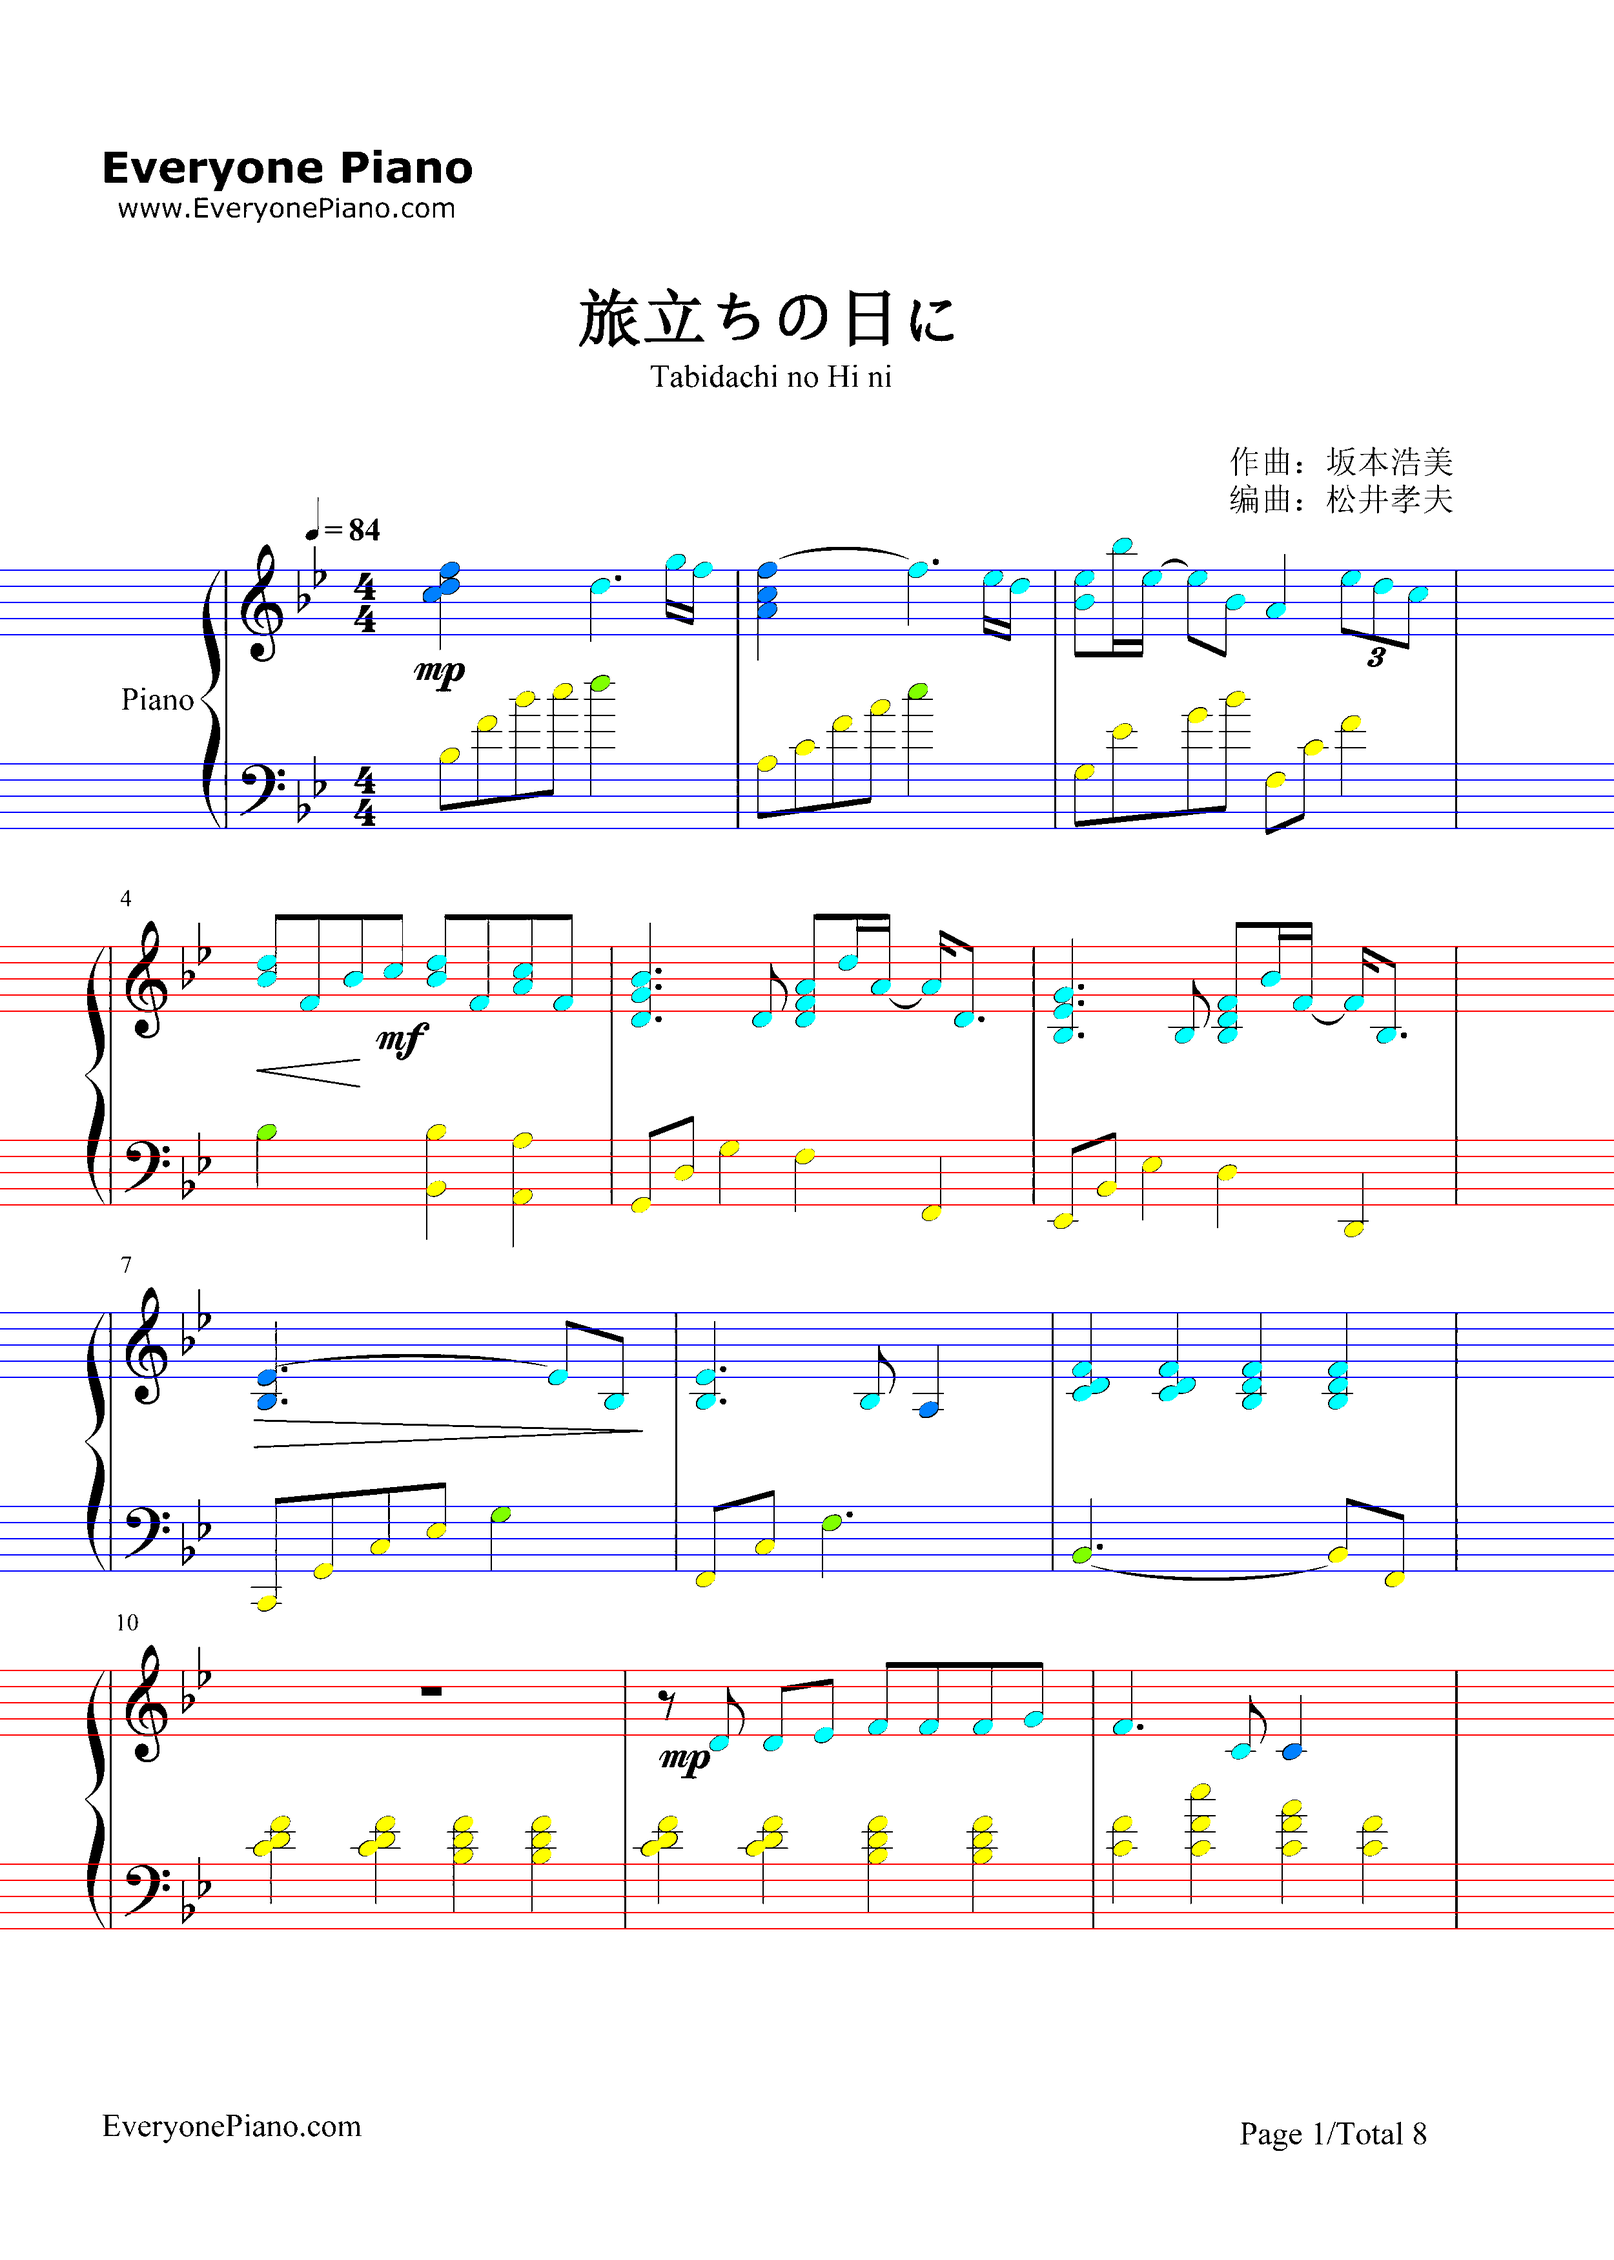
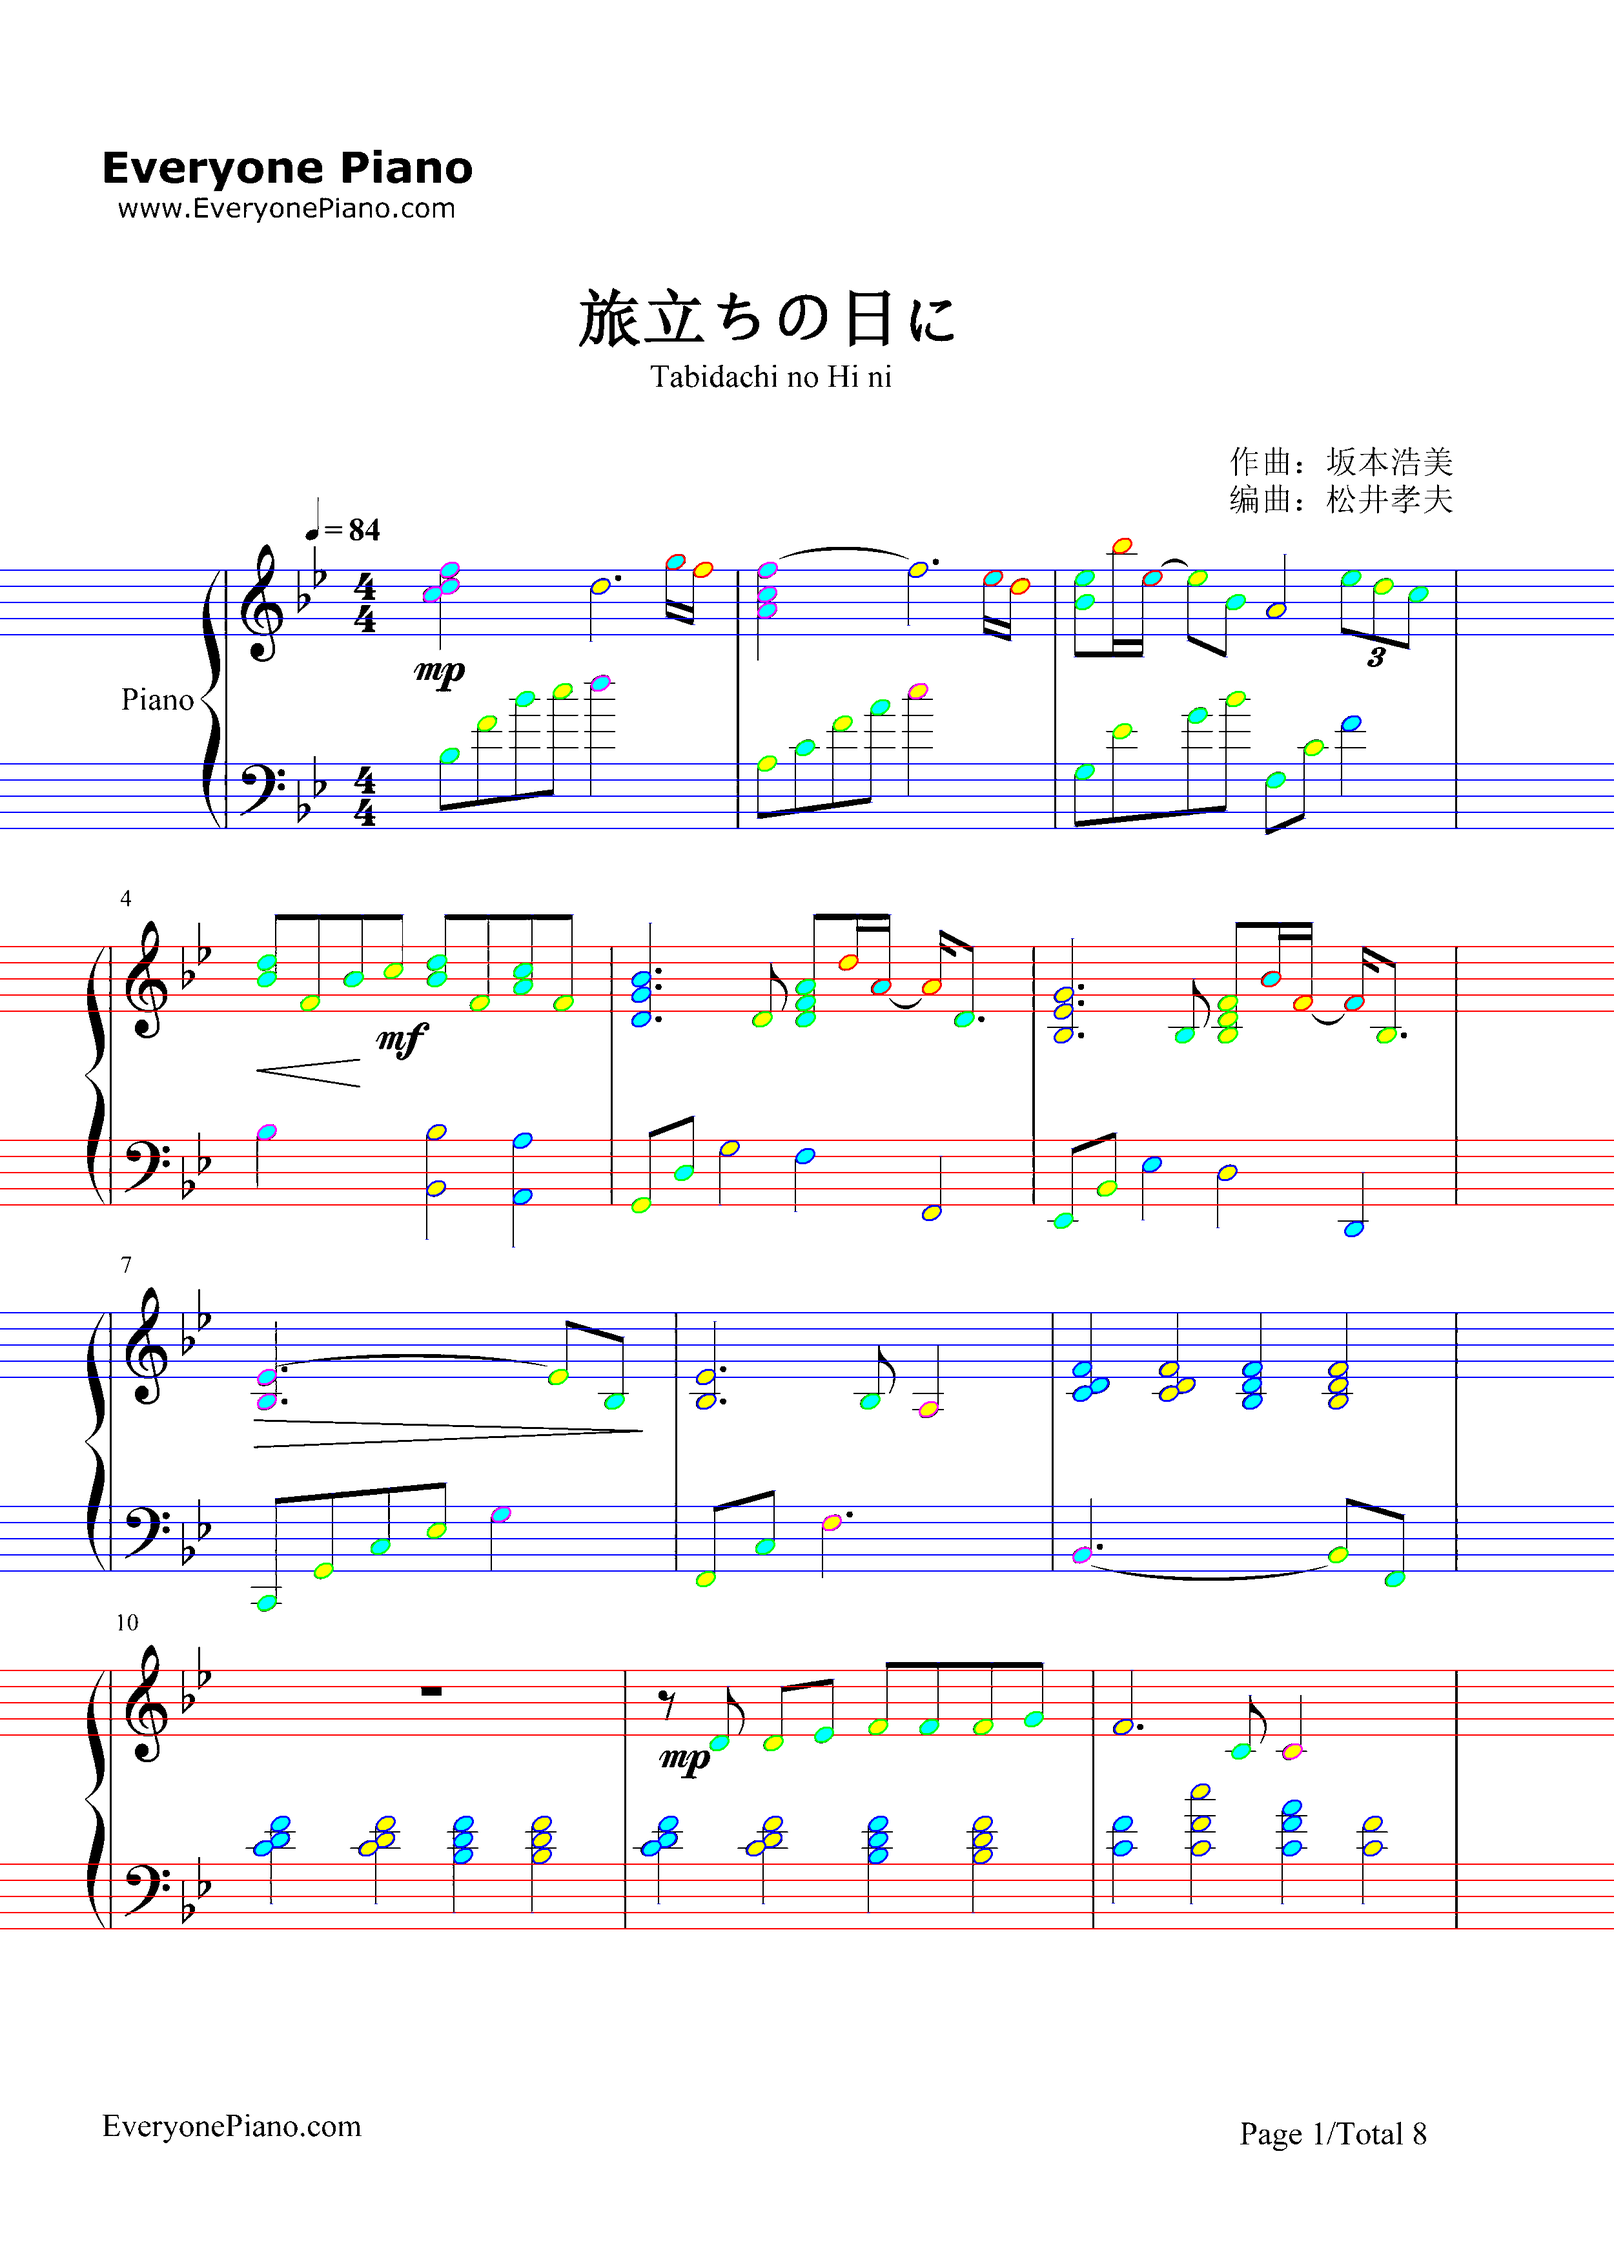
add function of judging note type

diff --git a/staff.py b/staff.py
@@ -1,4 +1,3 @@
-from os import dup
 import cv2
 import numpy as np
 
@@ -9,7 +8,8 @@ class Staff:
         self.margin_staff, self._margin_list = self.margin_ave(data)
         self.top = self.staff_lines[0]["center"]
         self.bottom = self.staff_lines[-1]["center"]
-
+        self.marble_list = []
+        self.group_line_y = []
 
     def margin_ave(self, data):
         margin = [data[i + 1]["center"] - data[i]["center"] for i in range(len(data) - 1)]
@@ -177,30 +177,33 @@ class Staff:
         cv2.imwrite('data/dst/test2.png', mask)
         cv2.imwrite('data/dst/test4.png', mask_circle)
 
-        lists = []
+        marbles_on_staff = []
         for y in scan_y:
-            lists.append(self.scan_marble_on_horizon(img, w, y[0], y[1], mask, mask_circle, mask_circle_center, margin_vr, margin_hr))
+            marbles_on_staff.extend(self.scan_marble_on_horizon(img, w, int(y[0]), int(y[1]), mask, mask_circle, mask_circle_center, margin_vr, margin_hr))
 
-        return [scan_y, lists, self.margin_staff]
-
+        self.marble_list = marbles_on_staff
+        self.grouping_marble()
+        self.judge_marble_type(img)
+        print(self.marble_list)
+        # return [scan_y, marbles_on_staff, self.margin_staff]
 
     def scan_marble_on_horizon(self, img, w, y, no, mask, mask_circle, mask_circle_center, margin_vr, margin_hr):
         list_marble = []
-        i = margin_hr
+        # i = margin_hr
         # while i < w - margin_hr:
         for i in range(margin_hr, w - margin_hr):
-            if img[y, i] == 0:
+            if img.item(y, i) == 0:
                 for j in range(-2, 3):
                     img_p = img[y - margin_vr + j: y + margin_vr + 1 + j, i - margin_hr: i + margin_hr + 1]
                     img_judge = img_p & mask
                     if np.count_nonzero(img_judge == 255) <= img_judge.size // 100 and self.concrete_extend_marble(img, i, no):
-                        list_marble.append([i, 4])
+                        list_marble.append([(i, y), 4, no])
                         break
                     else:
                         img_judge = img_p & mask_circle
                         img_judge2 = cv2.bitwise_not(img_p) & mask_circle_center
                         if np.count_nonzero(img_judge == 255) <= img_judge.size // 100 and np.count_nonzero(img_judge2 == 255) <= img_judge2.size // 10 and self.concrete_extend_marble(img, i, no):
-                            list_marble.append([i, 2])
+                            list_marble.append([(i, y), 2, no])
                             break
             else:
                 for j in range(-2, 3):
@@ -208,7 +211,7 @@ class Staff:
                     img_judge = img_p & mask_circle
                     img_judge2 = cv2.bitwise_not(img_p) & mask_circle_center
                     if np.count_nonzero(img_judge == 255) <= img_judge.size // 100 and np.count_nonzero(img_judge2 == 255) <= img_judge2.size // 10 and self.concrete_extend_marble(img, i, no):
-                        list_marble.append([i, 2])
+                        list_marble.append([(i, y), 2, no])
                         break
 
         list_marble = self.combine_duplicate_marble(list_marble, margin_vr)
@@ -227,7 +230,7 @@ class Staff:
                 pos += length
             else:
                 pos -= length
-            img_p = img[round(pos) - 1: round(pos) + 2, x - int(length // 2): x + int(length // 2)]
+            img_p = img[int(round(pos)) - 1: int(round(pos)) + 2, x - int(length // 2): x + int(length // 2)]
             flg = False
             for item in img_p:
                 flg = True if not np.count_nonzero(item == 255) else flg
@@ -243,7 +246,7 @@ class Staff:
             if duplicate_list == []:
                 duplicate_list.append(item)
                 continue
-            if item[0] - duplicate_list[-1][0] < margin_vr:
+            if item[0][0] - duplicate_list[-1][0][0] < margin_vr:
                 duplicate_list.append(item)
             else:
                 result_list.append(self.find_max_type(duplicate_list))
@@ -259,6 +262,99 @@ class Staff:
             if item[1] > 2:
                 type_max = item[1]
 
-        return [duplicate_list[len(duplicate_list) // 2][0], type_max]
+        return [duplicate_list[len(duplicate_list) // 2][0], type_max, duplicate_list[len(duplicate_list) // 2][2]]
 
+    # 同時に鳴る音符をグループ化(縦に並んでいる玉をまとめる)
+    def grouping_marble(self):
+        grouped_marbel_list = []
+        thresh = self.margin_staff * 1.5
+        while self.marble_list:
+            top_marble = self.marble_list.pop(0)
+            group = [top_marble]
+            group_idx = []
+            for i, marble in enumerate(self.marble_list):
+                if abs(top_marble[0][0] - marble[0][0]) <= thresh:
+                    group.append(marble)
+                    group_idx.append(i)
+            self.marble_list = [item for idx, item in enumerate(self.marble_list) if idx not in group_idx]
+            grouped_marbel_list.append(group)
+
+        grouped_marbel_list = sorted(grouped_marbel_list, key=lambda x: x[0][0])
+        self.marble_list = grouped_marbel_list
+
+    def judge_marble_type(self, img):
+        judge_area_width = int(self.margin_staff * 1.5)
+        judge_area_height = int(self.margin_staff * 1.5)
+        marble_type = [4, 8, 16]
+        for i, group in enumerate(self.marble_list):
+            direction = -1
+            top_marble = group[0]
+            if top_marble[1] <= 2:
+                continue
+            start_x = top_marble[0][0] - judge_area_width // 2
+            start_y = top_marble[0][1] - int(self.margin_staff // 2) - judge_area_height
+            cut = img[start_y:start_y+judge_area_height, start_x:start_x+judge_area_width]
+            line_list = self.find_marble_line(cut, start_x)
+            if line_list == []:
+                direction = 1
+                bottom_marble = group[-1]
+                start_y = bottom_marble[0][1] + int(self.margin_staff // 2)
+                cut = img[start_y:start_y+judge_area_height, start_x:start_x+judge_area_width]
+                line_list = self.find_marble_line(cut, start_x)
+                if not line_list:
+                    return
+
+            line_edge_y = self.calc_marble_line_edge_y(img, line_list, start_y, direction)
+            self.group_line_y.append((line_list[len(line_list) // 2], line_edge_y))
+            marble_flag_num = self.check_marble_flag(img, line_list, line_edge_y, direction)
+            for j in range(len(group)):
+                self.marble_list[i][j][1] = marble_type[marble_flag_num]
+
+    def find_marble_line(self, img_cut, x):
+        result = []
+        h, w = img_cut.shape[:2]
+        for i in range(w):
+            part = img_cut[0:h, i:i+1]
+            if np.size(part) - np.count_nonzero(part) > np.size(part) * 9 / 10:
+                result.append(x + i)
+
+        return result
+
+    def calc_marble_line_edge_y(self, img, line_list, y, direction=1):
+        start_line_x = line_list[0]
+        line_edge_y = y
+        while True:
+            next_y = line_edge_y + direction
+            cut = img[next_y:next_y+1, start_line_x:start_line_x+len(line_list)]
+            if np.count_nonzero(cut) == np.size(cut):
+                break
+            line_edge_y += direction
+        
+        return line_edge_y
+
+    def check_marble_flag(self, img, line_list, line_edge_y, direction=1):
+        zone_height = int(self.margin_staff * 2)
+        lines_pair = [line_list[0] - 3, line_list[-1] + 3]
+        if direction == 1:
+            zone_start_y = line_edge_y - int(self.margin_staff * 1.5)
+        else:
+            zone_start_y = line_edge_y - int(self.margin_staff // 2)
+        check_zone = [img[zone_start_y:zone_start_y+zone_height, lines_pair[0]:lines_pair[0]+1], img[zone_start_y:zone_start_y+zone_height, lines_pair[1]:lines_pair[1]+1]]
+
+        count_max = 0
+        for zone in check_zone:
+            combo = 0
+            count = 0
+            for dot in zone:
+                if dot[0] == 0:
+                    combo += 1
+                else:
+                    combo = 0
+                if combo == int(self.margin_staff // 6):
+                    count += 1
+
+            if count_max < count:
+                count_max = count
+
+        return count_max
 

diff --git a/prot.py b/prot.py
@@ -28,20 +28,37 @@ class Prot:
         cv2.imwrite('data/dst/paragraph.png', self.img_rgb)
 
 
-    def marbles(self, marbles):
-        flg = 0
-        for i1 in marbles:
-            for i2 in i1:
-                margin = int(i2[2]) if int(i2[2] % 2) else int(i2[2]) + 1
-                flg = 0 if flg else 1
-                for j1, j2 in zip(i2[0], i2[1]):
-                    
-                    for j3 in j2:
-                        if j3[1] <= 2:
-                            color_ = [(0, 255, 128), (255, 128, 0)]
-                            cv2.ellipse(self.img_rgb, box=((j3[0], j1[0]), (int(margin * 1.2), int(margin * 0.8)), -30), color=color_[flg], thickness=-1)
+    def marbles(self, score):
+        for paragraph in score.paragraph:
+            for staff in paragraph.staff:
+                margin = staff.margin_staff
+                for i, marble_group in enumerate(staff.marble_list):
+                    if i % 2:
+                        marble_color = (0,255,255)
+                    else:
+                        marble_color = (255, 255, 0)
+
+                    for marble in marble_group:
+                        if marble[1] <= 2:
+                            edge_color = (255, 0, 255)
+                        elif marble[1] == 4:
+                            edge_color = (255, 0, 0)
+                        elif marble[1] == 8:
+                            edge_color = (0, 255, 0)
                         else:
-                            color_ = [(0, 255, 255), (255, 255, 0)]
-                            cv2.ellipse(self.img_rgb, box=((j3[0], j1[0]), (int(margin * 1.2), int(margin * 0.8)), -30), color=color_[flg], thickness=-1)
+                            edge_color = (0, 0, 255)
+                        cv2.ellipse(self.img_rgb, box=((marble[0][0], marble[0][1]), (int(margin * 1.2), int(margin * 0.8)), -30), color=marble_color, thickness=-1)
+                        cv2.ellipse(self.img_rgb, box=((marble[0][0], marble[0][1]), (int(margin * 1.2), int(margin * 0.8)), -30), color=edge_color, thickness=2)
+
+                for i, y in enumerate(staff.group_line_y):
+                    cv2.line(self.img_rgb, (y[0]-2, y[1]), (y[0]+2, y[1]), (255,0,0), thickness=1)
+
+                    # for j3 in j2:
+                    #     if j3[1] <= 2:
+                    #         color_ = [(0, 255, 128), (255, 128, 0)]
+                    #         cv2.ellipse(self.img_rgb, box=((j3[0], j1[0]), (int(margin * 1.2), int(margin * 0.8)), -30), color=color_[flg], thickness=-1)
+                    #     else:
+                    #         color_ = [(0, 255, 255), (255, 255, 0)]
+                    #         cv2.ellipse(self.img_rgb, box=((j3[0], j1[0]), (int(margin * 1.2), int(margin * 0.8)), -30), color=color_[flg], thickness=-1)
 
         cv2.imwrite('data/dst/marble.png', self.img_rgb)

diff --git a/score.py b/score.py
@@ -44,9 +44,9 @@ class Score:
         cv2.imwrite('data/dst/test.png', self._img2)
 
         self._img3 = self._img2.copy()
-        result = []
-        for idx, item in enumerate(self.paragraph):
+        for idx in range(len(self.paragraph)):
             top = 0 if idx == 0 else self.paragraph[idx - 1].bottom
             bottom = self.height if idx == len(self.paragraph) - 1 else self.paragraph[idx + 1].top
-            result.append(item.search_marble_f1(self._img3, top, bottom))
-        return result
+            # result.append(item.search_marble_f1(self._img3, top, bottom))
+            self.paragraph[idx].search_marble_f1(self._img3, top, bottom)
+        # return result

diff --git a/paragraph.py b/paragraph.py
@@ -14,10 +14,11 @@ class Paragraph:
 
 
     def search_marble_f1(self, img, top_p, bottom_p):
-        result = []
-        for idx, item in enumerate(self.staff):
+        # result = []
+        for idx in range(len(self.staff)):
             top = top_p if idx == 0 else self.staff[idx - 1].bottom
             bottom = bottom_p if idx == len(self.staff) - 1 else self.staff[idx + 1].top
-            result.append(item.search_marble_f1(img, top, bottom))
+            # result.append(item.search_marble_f1(img, top, bottom))
+            self.staff[idx].search_marble_f1(img, top, bottom)
 
-        return result
+        # return result

diff --git a/main.py b/main.py
@@ -13,8 +13,8 @@ def main():
     prot.export_img(imgs)
     prot.paragraph(paragraph_data, imgs[1])
 
-    marbles = score.labeling(pitch)
-    prot.marbles(marbles)
+    score.labeling(pitch)
+    prot.marbles(score)
 
 
 if __name__ == '__main__':
